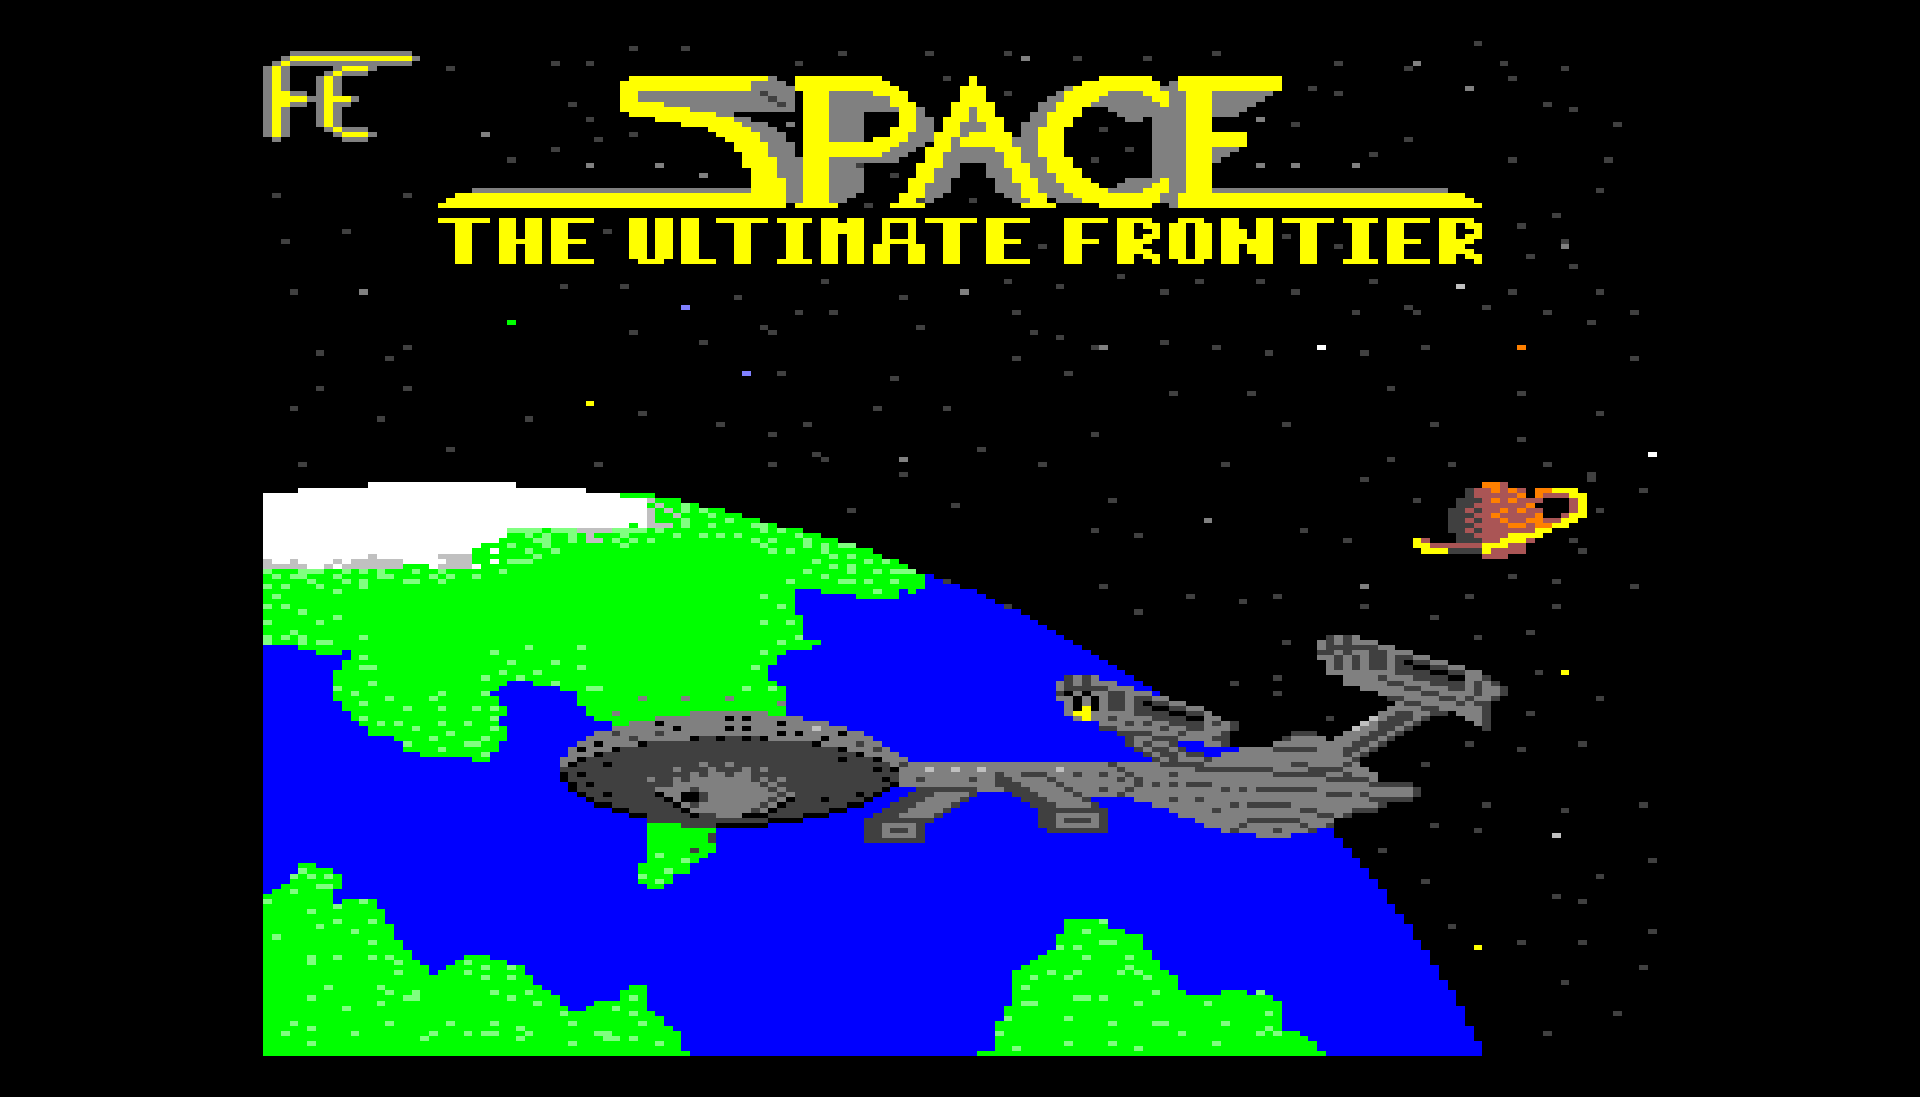
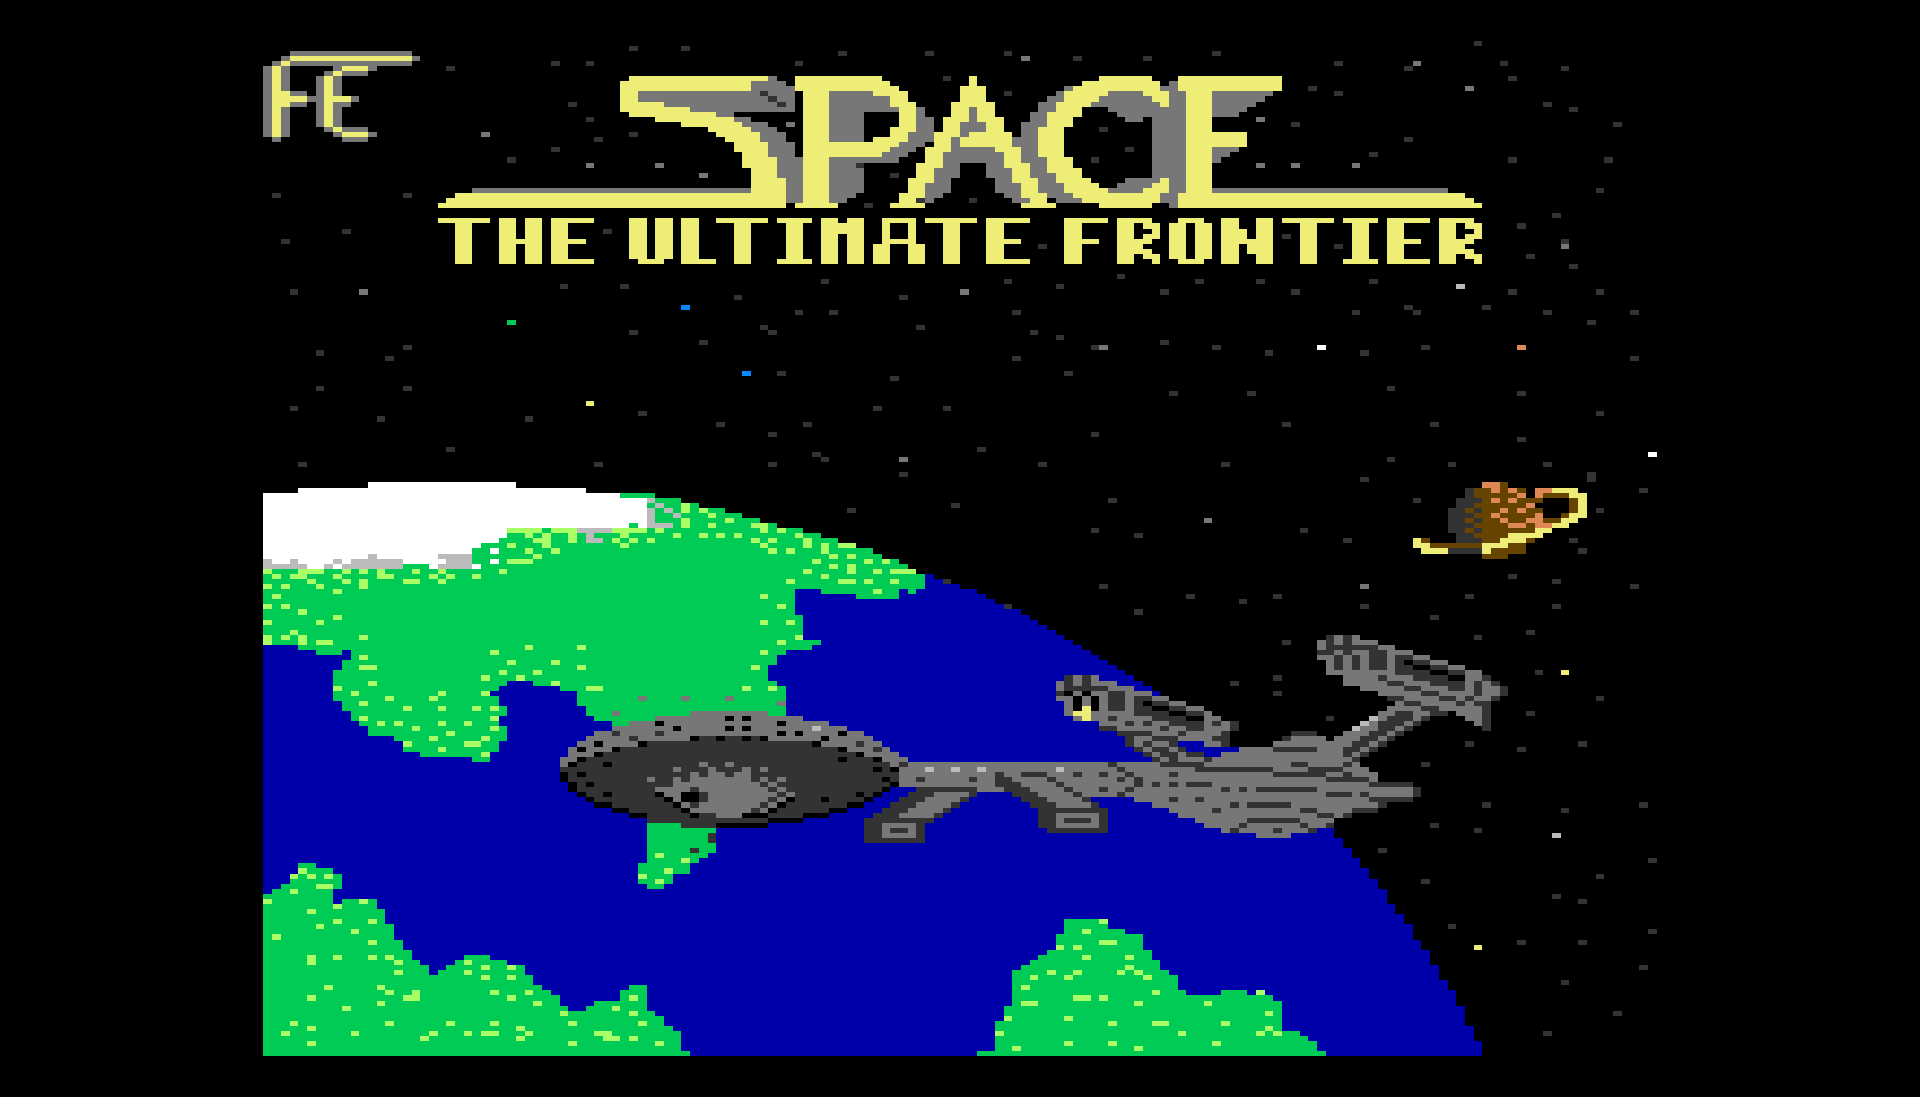
improve colors

diff --git a/src/device/vid.rs b/src/device/vid.rs
@@ -46,20 +46,20 @@ impl Default for Color {
 impl Color {
     const BLACK: Color = Color::rgb(0x000000);
     const WHITE: Color = Color::rgb(0xFFFFFF);
-    const RED: Color = Color::rgb(0xFF0000);
-    const GREEN: Color = Color::rgb(0x00FF00);
-    const BLUE: Color = Color::rgb(0x0000FF);
-    const YELLOW: Color = Color::rgb(0xFFFF00);
-    const PURPLE: Color = Color::rgb(0xFF00FF);
-    const CYAN: Color = Color::rgb(0x00FFFF);
-    const ORANGE: Color = Color::rgb(0xFF8000);
-    const BROWN: Color = Color::rgb(0xAA5555);
-    const GRAY: Color = Color::rgb(0x808080);
-    const LIGHT_GRAY: Color = Color::rgb(0xC0C0C0);
-    const DARK_GRAY: Color = Color::rgb(0x404040);
-    const LIGHT_RED: Color = Color::rgb(0xFF8080);
-    const LIGHT_GREEN: Color = Color::rgb(0x80FF80);
-    const LIGHT_BLUE: Color = Color::rgb(0x8080FF);
+    const RED: Color = Color::rgb(0x880000);
+    const GREEN: Color = Color::rgb(0x00CC55);
+    const BLUE: Color = Color::rgb(0x0000AA);
+    const YELLOW: Color = Color::rgb(0xEEEE77);
+    const PURPLE: Color = Color::rgb(0xCC44CC);
+    const CYAN: Color = Color::rgb(0xAAFFEE);
+    const ORANGE: Color = Color::rgb(0xDD8855);
+    const BROWN: Color = Color::rgb(0x664400);
+    const GRAY: Color = Color::rgb(0x777777);
+    const LIGHT_GRAY: Color = Color::rgb(0xBBBBBB);
+    const DARK_GRAY: Color = Color::rgb(0x333333);
+    const LIGHT_RED: Color = Color::rgb(0xFF7777);
+    const LIGHT_GREEN: Color = Color::rgb(0xAAFF66);
+    const LIGHT_BLUE: Color = Color::rgb(0x0088FF);
 
     const PALETTE: [Self; 16] = [
         Self::BLACK,
